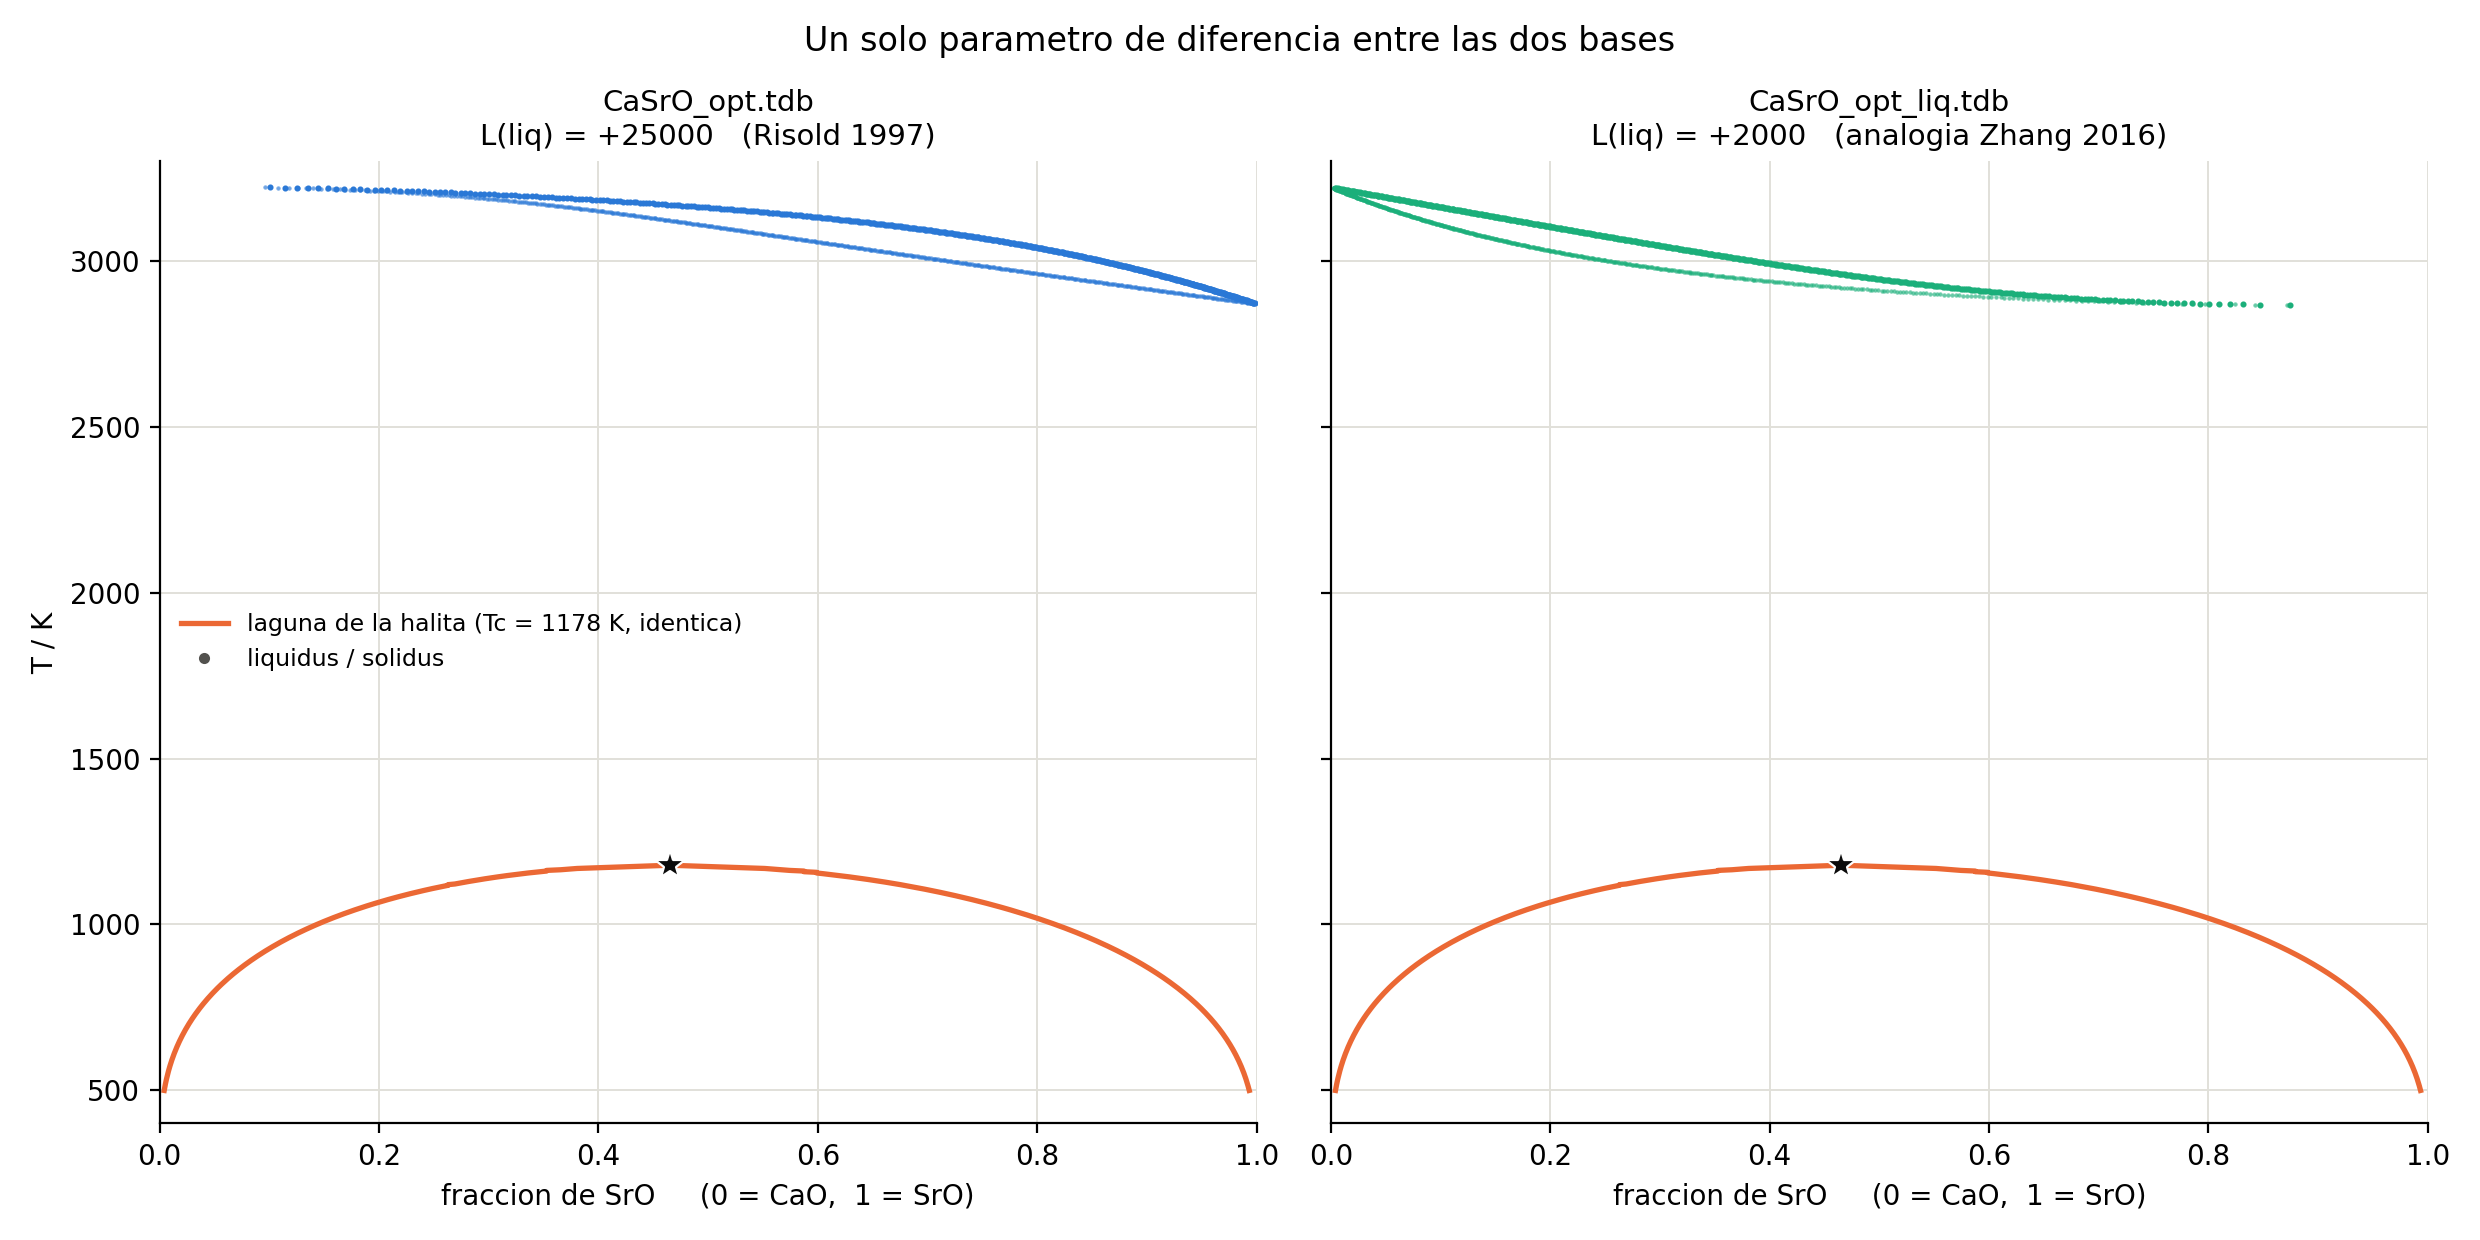
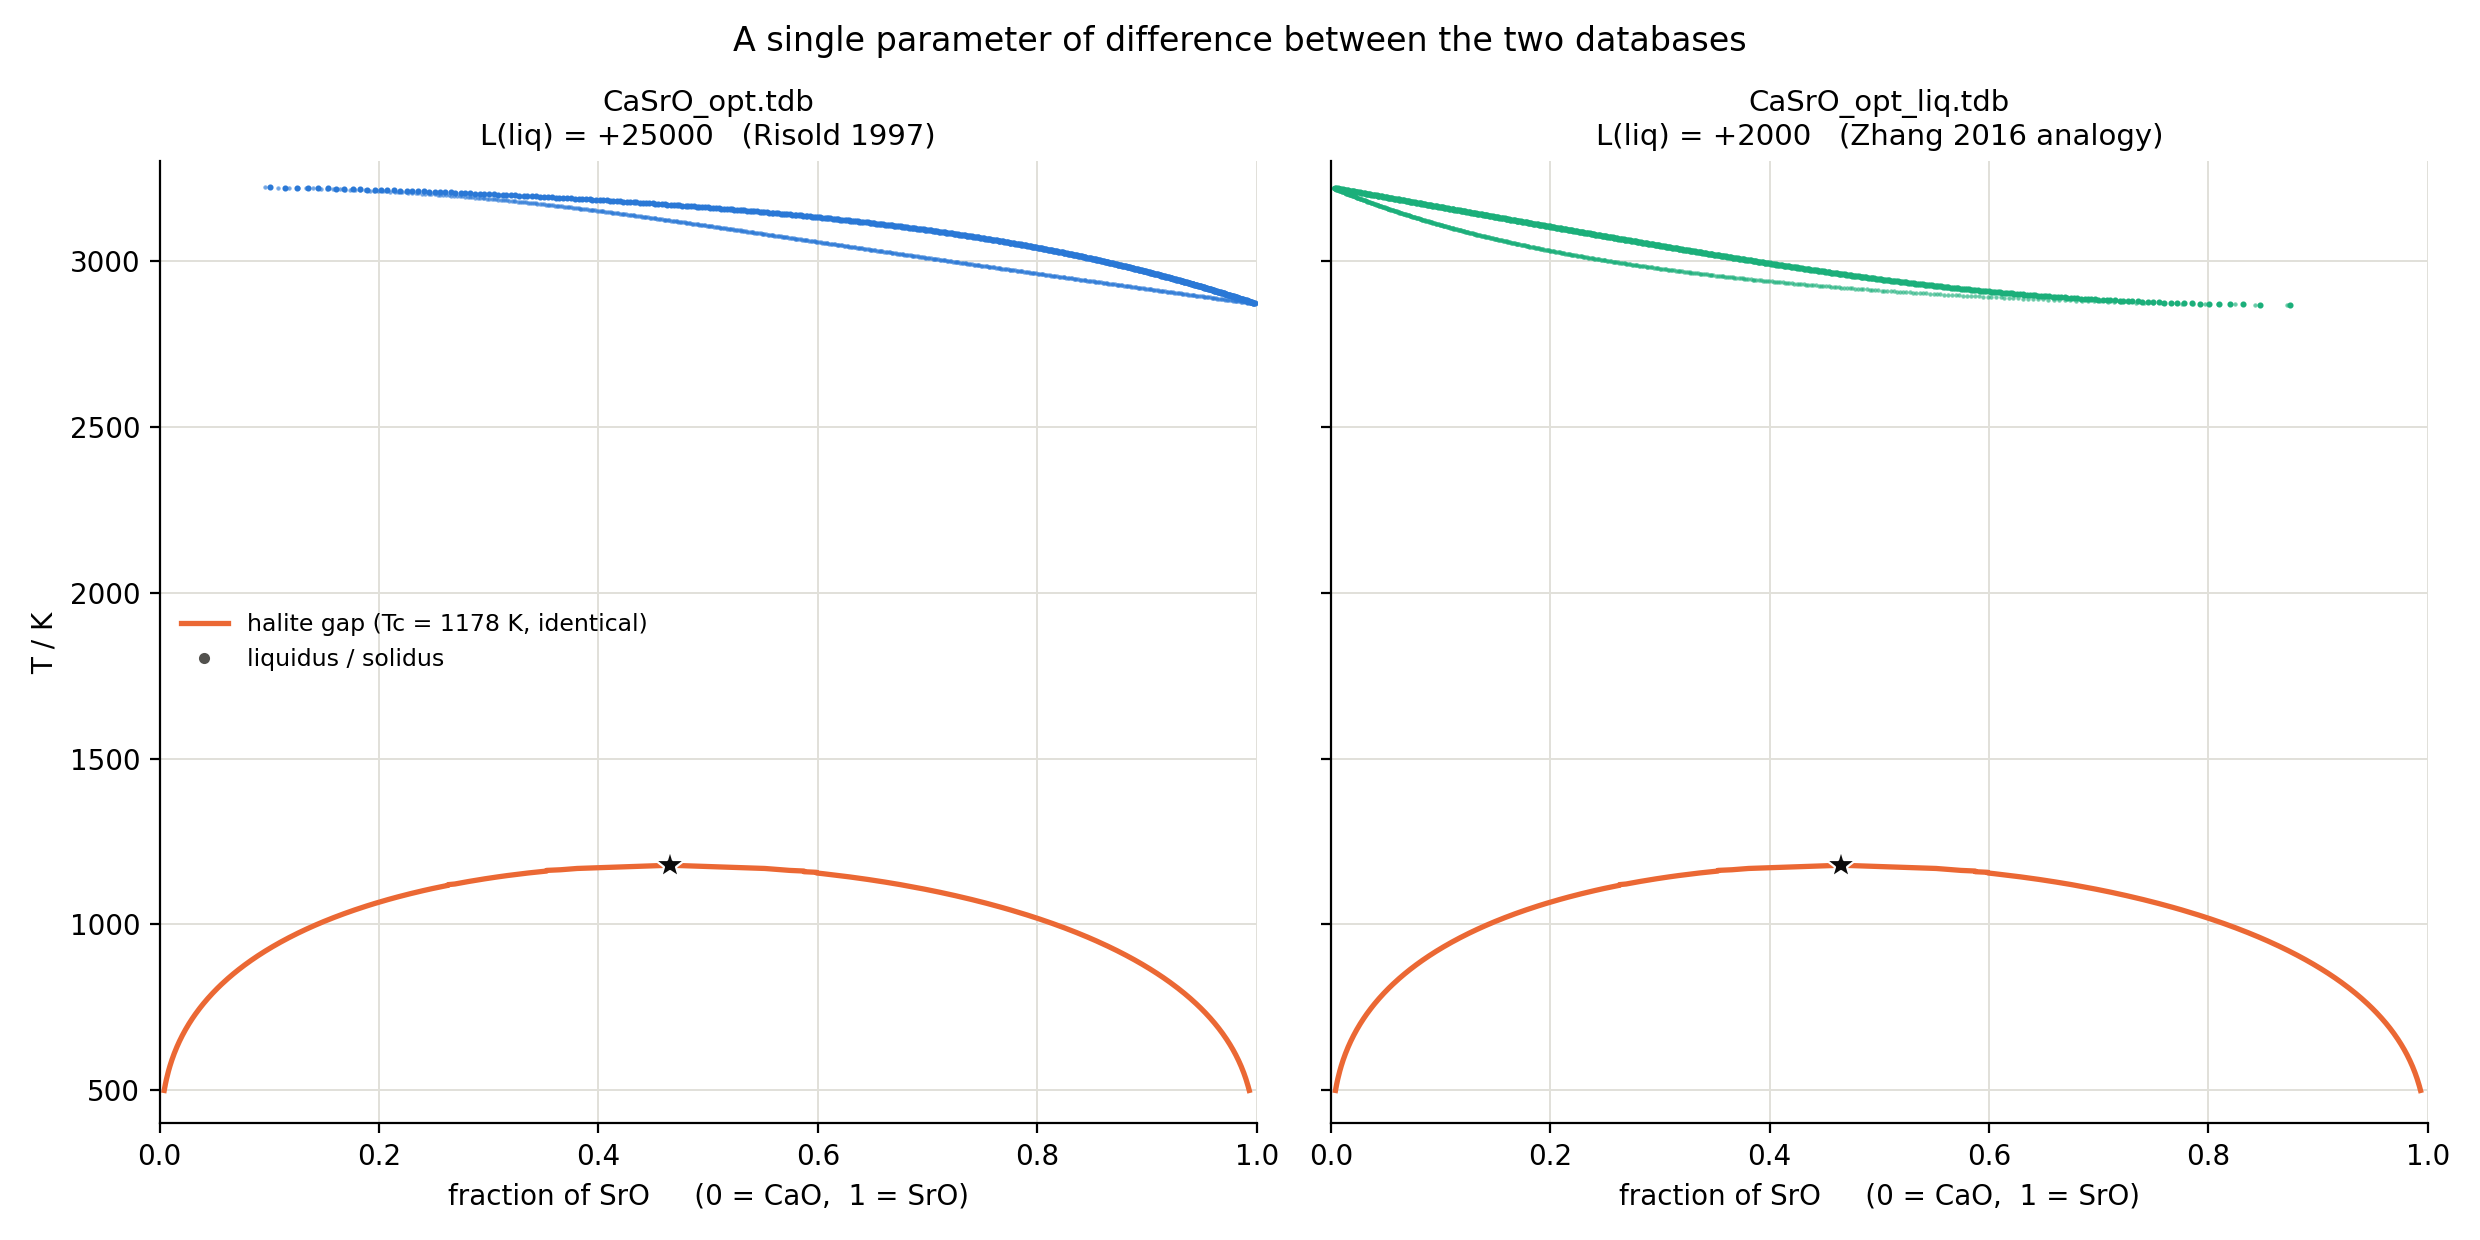
Regenerate the figures in English
Reruns the five plotting scripts whose labels were translated in 17e0b8f but
whose PNGs still carried the Spanish titles and axes: comparacion_bases,
dG_halita_laguna, diagrama_CaSrO_completo, diagrama_CaSrO_optimizado and
resultado_optimizacion_CaSrO.

Drops liquidus_analogia.png, which no published script produces.

plot_optimized_results.py also changes the experimental data of the Ca-CaO
liquidus: the single Fischbach & Zaitsev array is replaced by Fischbach's two
separate series, DTA and chemical analysis. Units stay consistent with the
axis, which is in at.% O with the model drawn as x_O_model * 100.

diff --git a/plot_optimized_results.py b/plot_optimized_results.py
@@ -43,22 +43,58 @@ ax1.grid(True, linestyle='--', alpha=0.6)
 # ==============================================================================
 # FIGURE 2: Solubility of CaO in Liquid Ca (Ca-O Binary)
 # ==============================================================================
-# Experimental data of Fischbach (1985) & Zaitsev (1998)
-T_exp_sol = np.array([1165, 1273, 1373, 1473, 1573, 1673, 1705])
-x_O_fischbach = np.array([0.0178, 0.0210, 0.0248, 0.0295, 0.0352, 0.0420, 0.0445]) # at.% O / 100
+# Experimental data of Fischbach (1985)
+T_exp_dta = np.array([1280, 1283, 1307, 1372, 1376, 1575])
+x_O_exp_dta = np.array([2.50, 2.60, 2.90, 3.15, 3.25, 4.20]) # at.% O
+
+T_exp_chem = np.array([1232, 1283, 1472, 1470, 1710, 1710])
+x_O_exp_chem = np.array([2.60, 2.80, 3.30, 3.90, 5.80, 6.20]) # at.% O
+
+from scipy.optimize import brentq
+R = 8.31451
+
+def gein(theta, T):
+    return 1.5 * R * theta + 3 * R * T * np.log(1 - np.exp(-theta / T))
+
+def G_CaO_cr(T):
+    T = np.asarray(T, float)
+    baja = (-652134.4 + 1.142993 * gein(369.447, T) + 0.62542 * gein(601.229, T)
+            + 0.218718 * gein(188.291, T) - 0.00182458 * T ** 2
+            - 3.1187482541e-02 * np.exp(0.00304142 * T))
+    alta = (-726686.2348 + 556.326025 * T - 79.464890 * T * np.log(T)
+            - 2.269506e-04 * T ** 2)
+    return np.where(T <= 3222.0, baja, alta)
+
+def G_CaO_liq(T):
+    return (-656748.5662 + 572.751716 * T - 84.370735 * T * np.log(T)
+            + 2.374069e-04 * T ** 2)
+
+def L_liq(T):
+    return -9625.0 + 12.30 * T
+
+def solve_solubility(T):
+    g_cr = G_CaO_cr(T)
+    g_liq = G_CaO_liq(T)
+    L = L_liq(T)
+    
+    def eq(y):
+        return g_liq + R * T * np.log(y) + (1 - y)**2 * L - g_cr
+        
+    return brentq(eq, 1e-12, 0.99)
 
 T_model = np.linspace(1093.6, 1800, 150)
-# Optimized CALPHAD solubility model: ln(x_O) = -9625/R/T + ...
-x_O_model = 0.0178 * np.exp(12.3 * (1 - 1093.6/T_model) - 9625/8.314 * (1/T_model - 1/1093.6))
+y_model = np.array([solve_solubility(t) for t in T_model])
+x_O_model = y_model / (1.0 + y_model)
 
 ax2.plot(x_O_model * 100, T_model, 'r-', linewidth=2.5, label='Optimized CALPHAD (Ca-CaO liquidus)')
-ax2.scatter(x_O_fischbach * 100, T_exp_sol, color='blue', s=60, zorder=5, marker='o', label='Fischbach (1985) exp.')
+ax2.scatter(x_O_exp_dta, T_exp_dta, color='blue', s=60, zorder=5, marker='o', label='Fischbach (1985) DTA')
+ax2.scatter(x_O_exp_chem, T_exp_chem, color='darkturquoise', s=60, zorder=5, marker='s', label='Fischbach (1985) Chem. Anal.')
 ax2.scatter(1.78, 1093.6, color='black', s=80, zorder=6, marker='*', label='bcc-Ca + CaO eutectic (1093.6 K)')
 
 ax2.set_title('Oxygen Solubility in Liquid Ca', fontsize=13, fontweight='bold', pad=12)
 ax2.set_xlabel(r'Oxygen Concentration (at.% O)', fontsize=11)
 ax2.set_ylabel(r'Temperature (K)', fontsize=11)
-ax2.set_xlim(0, 5.0)
+ax2.set_xlim(0, 7.0)
 ax2.set_ylim(1000, 1800)
 ax2.legend(frameon=True, facecolor='white', framealpha=0.9, fontsize=9)
 ax2.grid(True, linestyle='--', alpha=0.6)
